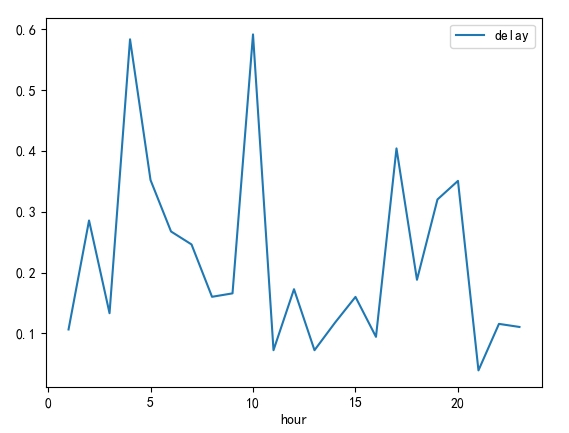
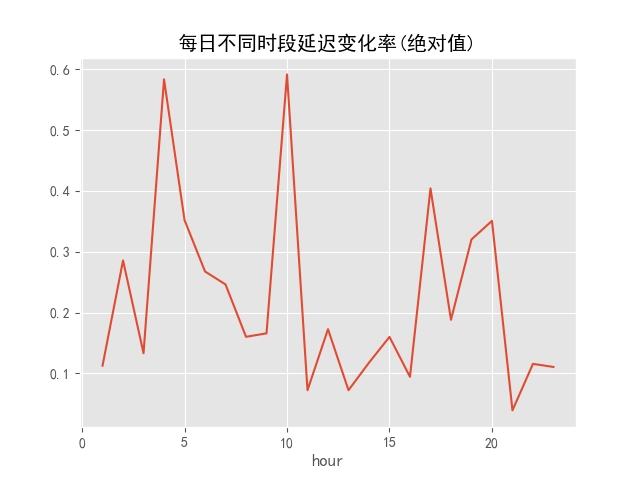
update

diff --git a/1.WiFi分析/report.md b/1.WiFi分析/report.md
@@ -46,30 +46,22 @@
 ### 问题1
 针对问题1，计算每个时间段的平均延迟，并进行排序
 
-        tb.groupby(by='hour').agg({'delay':'mean'}).sort_values(ascending=True)
+    tb.dtype('int',['delay']).group('hour').delay.mean().line()
 
 ![](https://github.com/heinz-lxy/data-analysis/blob/master/1.WiFi%E5%88%86%E6%9E%90/images/38192.jpg?raw=true)
-
 
 可以看到，延迟的谷点在上午9点左右，延迟较低的时间段主要集中在白天，符合一般规律
 延迟的峰点在凌晨2点左右，0点-4点延迟都处于高点
 
-        11.0    0.202289
-        6.0     0.217906
-        17.0    0.235705
+另外，6点、11点、17点这些饭点较网络空闲时段延迟明显偏高(侧面反映附近人群的饭点主要集中在:6点到7点，11点到12点，17点到18点)
 
-另外，这些饭点较网络空闲时段延迟明显偏高(侧面反映附近人群的饭点主要集中在:6点到7点，11点到12点，17点到18点)
-
-为了分析延迟的变化情况，按照时间顺序绘制折线图
-
-![各时间段延迟](https://github.com/heinz-lxy/data-analysis/blob/master/1.WiFi%E5%88%86%E6%9E%90/images/40773.jpg?raw=true)
-
-可以看到，0点以后延迟有较大增长，在2点左右延迟达到高峰，随后迅速下降
+总体趋势是，0点以后延迟有较大增长，在2点左右延迟达到高峰，随后迅速下降
 6点-9点延迟持续下降
 
 为方便进一步分析，计算延迟变化率
 
-        tb = tb.reset_index().sort_values(by='hour',ascending=True).set_index('hour').pct_change()
+    Table('gx2.pkl').dtype('int',['delay']).
+        group('hour').delay.mean().pct_change().line()
 
 ![网络行为变化率](https://github.com/heinz-lxy/data-analysis/blob/master/1.WiFi%E5%88%86%E6%9E%90/images/74496.jpg?raw=true)
 
